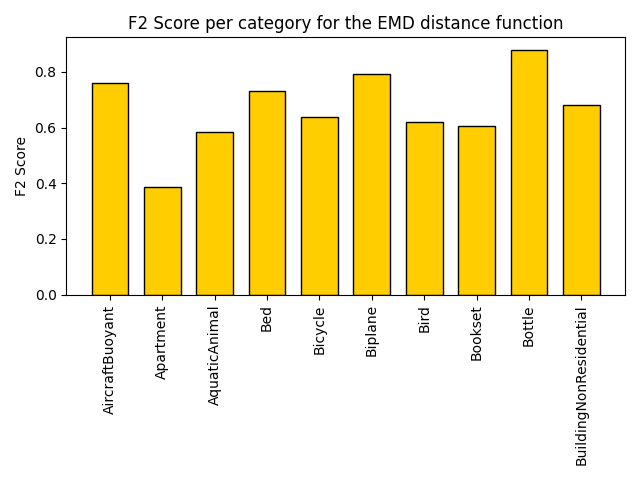
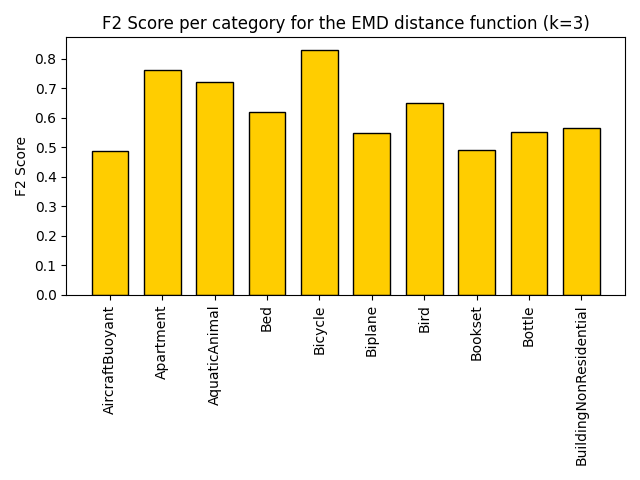
new metric code

diff --git a/Rorschach/evaluation/evaluate_max.py b/Rorschach/evaluation/evaluate_max.py
@@ -3,6 +3,7 @@ from collections import defaultdict
 import numpy as np
 import pandas as pd
 from plot_results import plot_perclass_metrics
+from sklearn.metrics import confusion_matrix
 from tqdm.contrib import tzip
 
 
@@ -36,17 +37,31 @@ def calculate_perclass(query_results_path: str, plot_type: str, k: int = None):
         if k is not None:  # Limit to the top k results, results are already sorted by distance
             y_pred = y_pred[:k]
 
+        # Number of meshes retrieved, should ideally be equal to k
+        # But can be less if k > category size or if there are not enough matches in the database
         query_size = len(y_pred)
 
+        # 1 for all retrieved shapes, 0 for all shapes not retrieved
+        # Thus, the shapes at (database size minus k) are always 0
+        y_true = [1] * query_size + [0] * (database_size - query_size)
+
+        # 1 for all retrieved shapes that have the correct category, 0 for all shapes not retrieved correctly
+        # And 0 for all shapes that are not retrieved at all
+        y_pred = [1 if pred == query_class else 0 for pred in y_pred] + [0] * (database_size - len(y_pred))
+
+        cm = confusion_matrix(y_true, y_pred, labels=[0, 1])  # Set labels as 0 and 1 to guarantee correct order
+        TN, FP, FN, TP = cm.ravel()
+
         # Get true positives/negatives and false positives/negatives
-        TP = y_pred.count(query_class)  # Correctly labelled as 'member of query class'
+        # TP = y_pred.count(query_class)  # Correctly labelled as 'member of query class'
         # Incorrectly labelled as 'member of query class' (i.e. all returned shapes that are not part of the query class)
-        FP = query_size - TP
-        # Correctly labelled as 'NOT a member of query class' (i.e. all shapes in the database not part of query class that were not returned)
-        TN = database_size - query_size - FP
+        # FP = query_size - TP
+        # Correctly labelled as 'NOT a member of query class'
+        # i.e. all shapes in the database not part of query class that were not returned
+        # TN = database_size - query_size - FP
         # Incorrectly labelled as 'NOT a member of query class' (i.e. all shapes in the database that are
         # a part of the query class but were not returned)
-        FN = query_size - TP
+        # FN = query_size - TP
 
         # Store performance metric results
         for metric, value in zip([TPs, FPs, TNs, FNs], [TP, FP, TN, FN]):
@@ -69,7 +84,7 @@ def calculate_metrics(TPs, FPs, TNs, FNs):
 
         # Compute performance metrics row wise, thus for all queried shapes of a category in one go
         precision = TP / (TP + FP)
-        recall = TP / FN
+        recall = TP / (TP + FN)
         accuracy = (TP + TN) / (TP + TN + FP + FN)
         sensitivity = TP / (TP + FN)
         specificity = TN / (TN + FP)

diff --git a/Rorschach/evaluation/plot_results.py b/Rorschach/evaluation/plot_results.py
@@ -13,21 +13,19 @@ UU_PAL = sns.color_palette([UU_YELLOW, UU_RED, UU_CREME, UU_ORANGE, UU_BURGUNDY,
 
 
 def plot_perclass_metrics(data_dict, metric, distance_function, k=None):
-    # Plot histogram
-    labels = list(data_dict.keys())
-    values = list(data_dict.values())
-    # items = [(label, value) for label, value in zip(labels, values)]
-    # items.sort(key=lambda x: x[1])
-    # labels, values = zip(*items)
+    labels, values = zip(*data_dict.items())
+    k_str = k if k is not None else "|c|"
+    metric_str = metric.lower().replace(" ", "_")
 
     fig, ax = plt.subplots()
     ax = plt.bar(labels, values, color=UU_YELLOW, width=0.7, edgecolor="black")
+    plt.title(f"{metric.title()} per category for the {distance_function} distance function (k={k_str})")
+
     plt.xticks(rotation=90)
     plt.ylabel(metric.title())
-    plt.title(f"{metric.title()} per category for the {distance_function} distance function")
 
     plt.tight_layout()
-    plt.savefig(f"./Rorschach/evaluation/plots/perclass_{metric.lower().replace(' ', '_')}_k{k}_{distance_function}.png")
+    plt.savefig(f"./Rorschach/evaluation/plots/perclass_{metric_str}_k{k}_{distance_function}.png")
     # plt.show()
 
 
